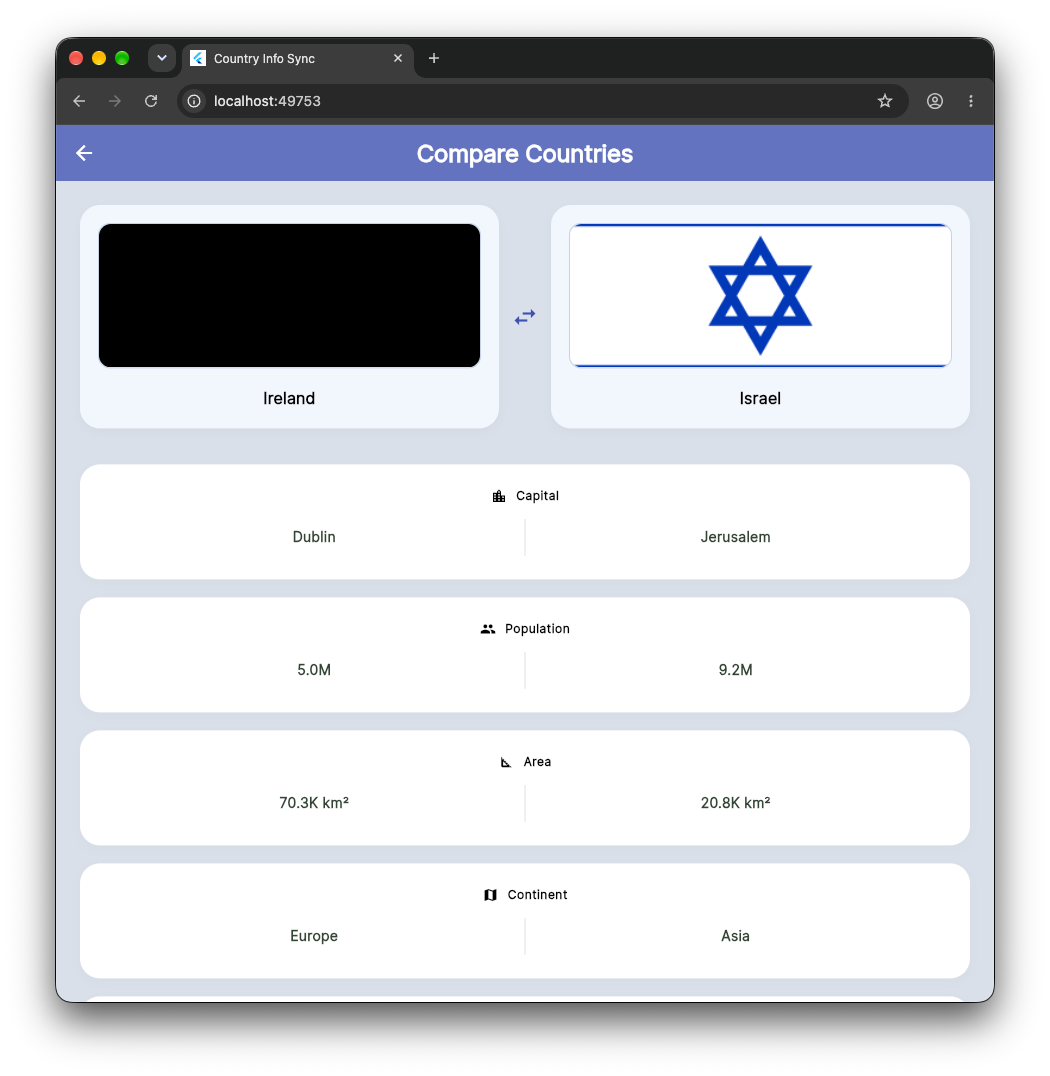
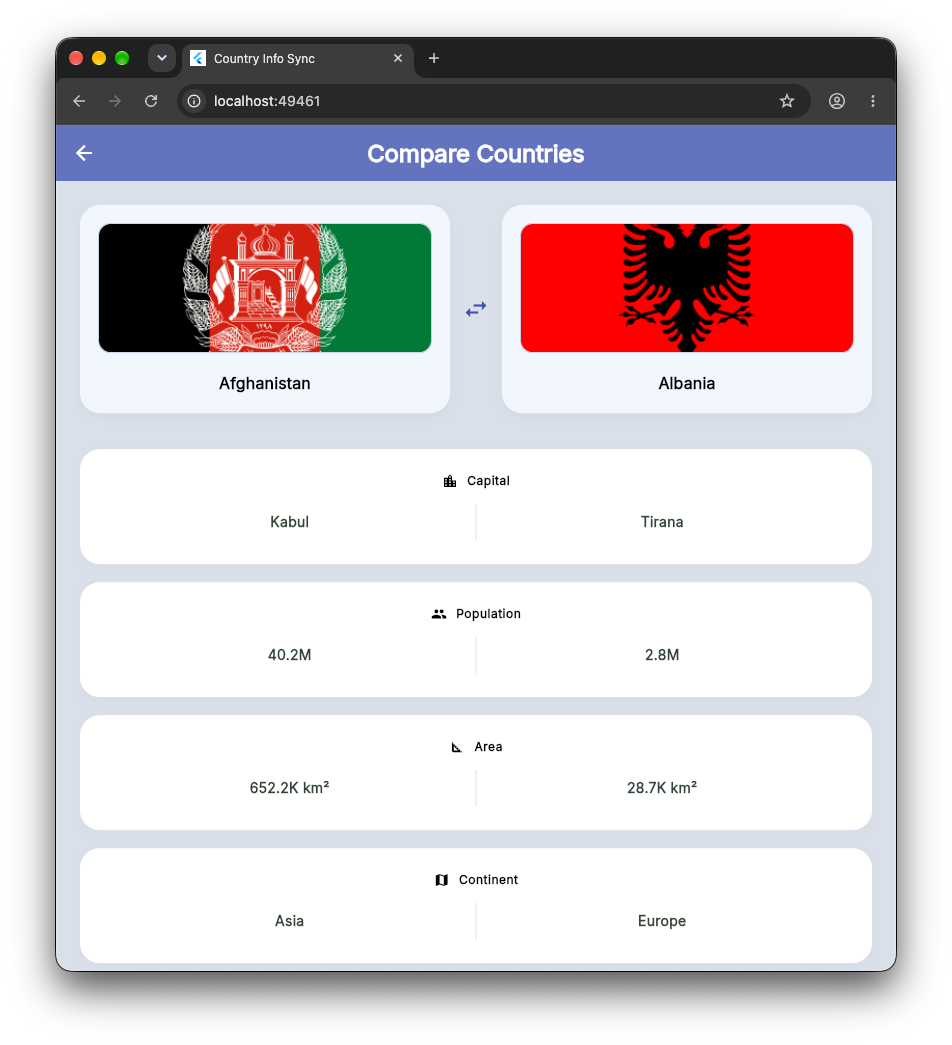
fix: improve compare screen placeholder and update dependencies
- Add background color to CachedNetworkImage placeholder in compare screen
- Update google_fonts from ^6.2.0 to ^8.2.1
- Update cached_network_image from ^3.3.0 to ^4.0.0
- Update web compare screenshot

diff --git a/lib/screens/compare_screen.dart b/lib/screens/compare_screen.dart
@@ -192,11 +192,14 @@ class CompareScreen extends StatelessWidget {
                   ? CachedNetworkImage(
                       imageUrl: country.flag,
                       fit: BoxFit.cover,
-                      placeholder: (context, url) => const Center(
-                        child: SizedBox(
-                          width: 20,
-                          height: 20,
-                          child: CircularProgressIndicator(strokeWidth: 2),
+                      placeholder: (context, url) => Container(
+                        color: isDark ? Colors.white10 : Colors.grey[200],
+                        child: const Center(
+                          child: SizedBox(
+                            width: 20,
+                            height: 20,
+                            child: CircularProgressIndicator(strokeWidth: 2),
+                          ),
                         ),
                       ),
                       errorWidget: (context, url, error) => const Icon(Icons.flag, size: 40),
